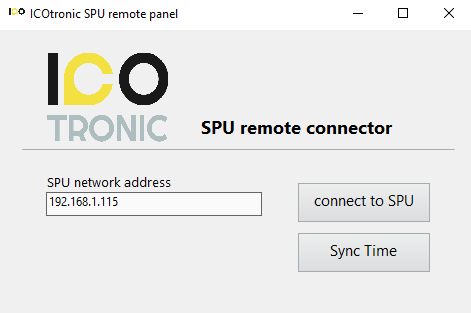
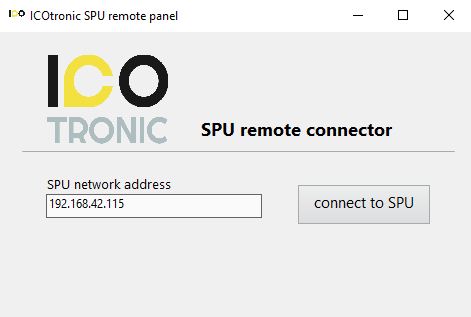
Updated to v5.3.2.17

diff --git a/C-RIO_Dashboard_de.md b/C-RIO_Dashboard_de.md
@@ -4,9 +4,9 @@
 Benutzeranleitung für das ICOtronic Dashboard.
 
 # Version
-Diese Benutzeranleitung wurde für die Dashboardversion v5.3.2.16 geschrieben. Für ältere Versionen den nachstehenden Link benutzen:
+Diese Benutzeranleitung wurde für die Dashboardversion v5.3.2.17 geschrieben. Für ältere Versionen den nachstehenden Link benutzen:
 
-[ältere Version](https://github.com/MyTooliT/Dashboard/blob/07021f2d55188e47bdf2cb417bd4a4016ef03118/C-RIO_Dashboard_de.md)
+[ältere Version](https://github.com/MyTooliT/Dashboard/blob/e12b933189f3a31d5540899d0332b8fbdf927a62/C-RIO_Dashboard_de.md)
 
 # ICOtronic System Komponenten 				  			
 
@@ -38,13 +38,11 @@ Anschließend, sofern notwendig, sollte der Computer neu gestartet werden.
 # Echtzeit-Dashboard 					  			
 
 Öffnen Sie das "ICOtronicRemotePanel" um eine Verbindung zum Dashboard herzustellen. Nun sollte sich das folgende Fenster öffnen und nach der IP-Adresse des Dashboards fragen. Hier muss folgende IP-Adresse angegeben werden:
-**192.168.1.115**
+**192.168.42.115**
 
 ![Remote_IP](assets/Remote_IP.png)
 
 Durch drücken von "connect to SPU" sollte das Dashboard geöffnet werden.
-
-Durch drücken des "Sync Time" Buttons kann die aktuelle PC Zeit als die aktuelle Systemzeit der SPU gesetzt werden.
 
 Das Dashboard verfügt über 4 Reiter: **Stability**, **Breakout detection**, **Raw data view** und **System**. Oberhalb der Reiter befindet sich, egal welcher Reiter gewählt ist, eine Anzeige zum Verbindungsstatus des Systems und das ICOTronic-Logo.
 

diff --git a/C-RIO_Dashboard_en.md b/C-RIO_Dashboard_en.md
@@ -4,10 +4,10 @@
 User manual for the ICOtronic Dashboard.
 
 # Version
-This version of the documentation was written for the Dashboard version v5.3.2.16.
+This version of the documentation was written for the Dashboard version v5.3.2.17.
 For older documentation look at the following link:
 
-[older Version](https://github.com/MyTooliT/Dashboard/blob/07021f2d55188e47bdf2cb417bd4a4016ef03118/C-RIO_Dashboard_en.md)
+[older Version](https://github.com/MyTooliT/Dashboard/blob/e12b933189f3a31d5540899d0332b8fbdf927a62/C-RIO_Dashboard_en.md)
 
 # ICOtronic System components 		  			
 
@@ -37,13 +37,11 @@ After connecting the Laptop via the Ethernet Cable to the SPU, the correct netwo
 # Real-Time-Dashboard 			  			
 
 Use the "ICOtronicRemotePanel" then open the program. Now it will open the following window in which you have to input the IP-Address of the Dashboard. The input should be:
-**192.168.1.115**
+**192.168.42.115**
 
 ![Remote_IP](assets/Remote_IP.png)
 
 With a press on "connect to SPU" the program should connect to the Dashboard.
-
-The momentary system time of the computer can be set as the momentary system time of the SPU with the "Sync Time" button.
 
 The Dashboard contains five tabs: **Stability**, **Raw data view**, **Replay**, **System** and **Database**. The header of the Dashboard, which is active on all the mentioned tabs, has a Connection identifier and the ICOtronic logo.
 
